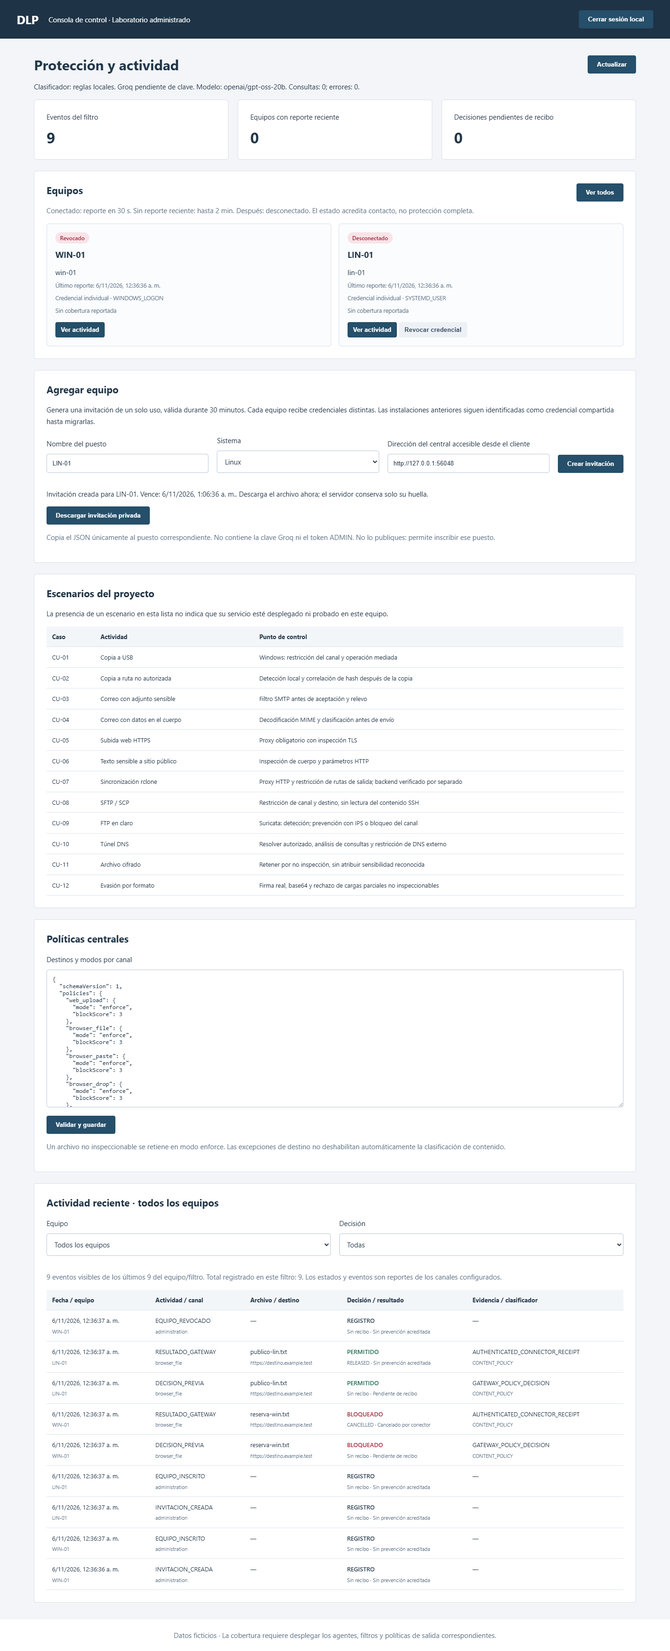
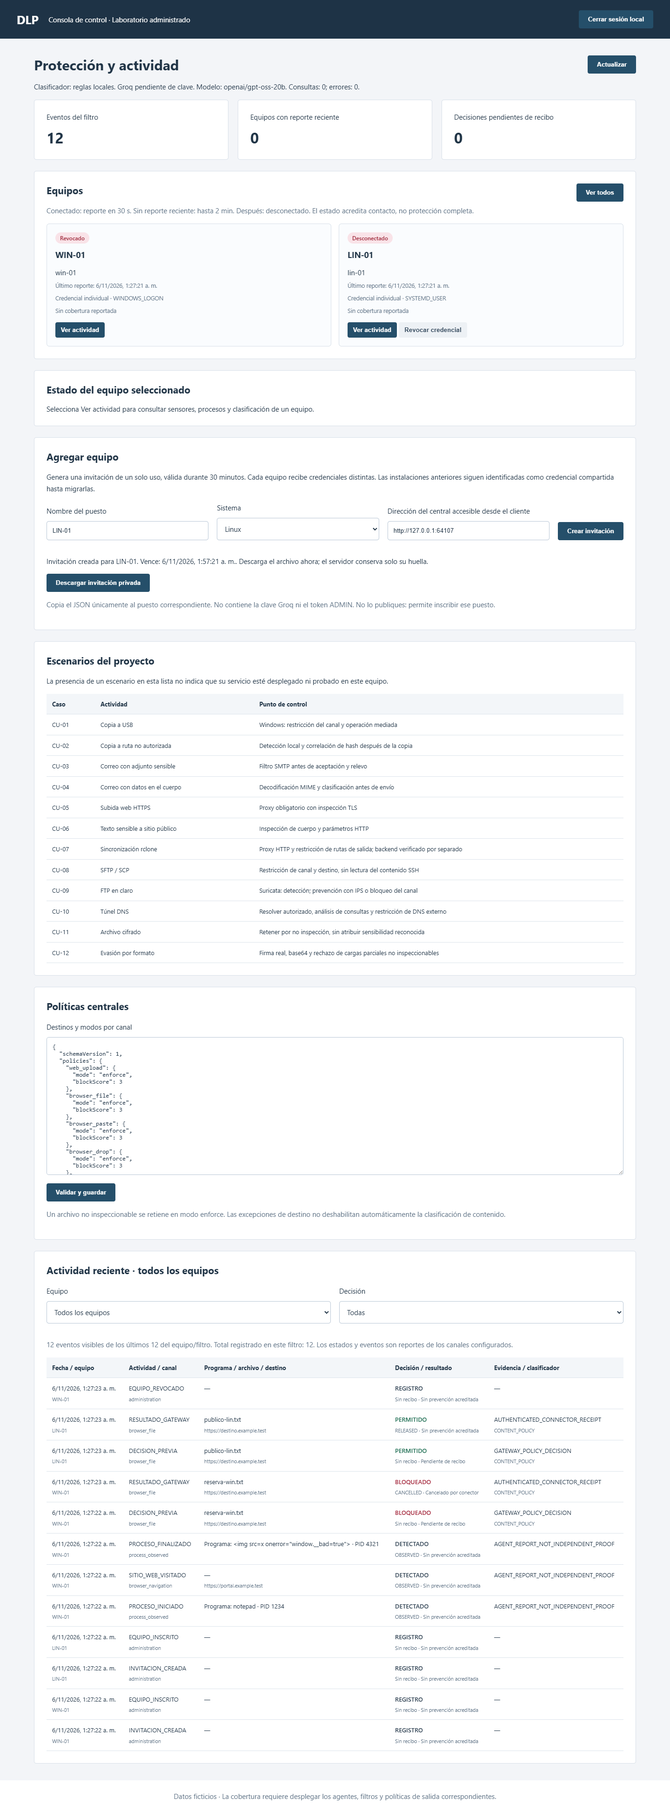
Fix console-free client startup and expose per-device sensor activity

diff --git a/control/ui/control.js b/control/ui/control.js
@@ -21,8 +21,21 @@ function renderEvents() {
     const file = v.file || files.map(f => f.file).join(", ");
     const semantic = v.semanticStatus || files.map(f => f.semanticStatus).filter(Boolean).join(", ");
     const label = devices.get(v.device)?.name || v.deviceName || v.device || "control";
-    return `<tr><td>${esc(when(v.timestamp))}<small>${esc(label)}</small></td><td>${esc(v.activity)}<small>${esc(v.sourceChannel || v.channel)}</small></td><td>${esc(file || "—")}<small>${esc(v.destination || "")}</small></td><td><span class="badge ${/^[A-Z_]+$/.test(v.decision || "") ? v.decision : ""}">${esc(v.decision || "REGISTRO")}</span><small>${esc(v.outcome || "Sin recibo")} · ${v.prevented === true ? "Cancelado por conector" : v.reportedPrevented ? "Bloqueo reportado por agente" : v.prevented === null ? "Pendiente de recibo" : "Sin prevención acreditada"}</small></td><td>${esc(v.evidence || "—")}<small>${esc(v.cause || semantic || "")}</small></td></tr>`;
+    const target = v.destination || (v.destinationAddress ? v.destinationAddress + (v.destinationPort ? ":" + v.destinationPort : "") : "");
+    const program = v.program ? `Programa: ${v.program}${v.processId ? " · PID " + v.processId : ""}` : "";
+    return `<tr><td>${esc(when(v.sourceTime || v.timestamp))}<small>${esc(label)}</small></td><td>${esc(v.activity)}<small>${esc(v.sourceChannel || v.channel)}</small></td><td>${esc(file || program || "—")}${file && program ? `<small>${esc(program)}</small>` : ""}<small>${esc(target)}</small></td><td><span class="badge ${/^[A-Z_]+$/.test(v.decision || "") ? v.decision : ""}">${esc(v.decision || "REGISTRO")}</span><small>${esc(v.outcome || "Sin recibo")} · ${v.prevented === true ? "Cancelado por conector" : v.reportedPrevented ? "Bloqueo reportado por agente" : v.prevented === null ? "Pendiente de recibo" : "Sin prevención acreditada"}</small></td><td>${esc(v.evidence || "—")}<small>${esc(v.cause || semantic || "")}</small></td></tr>`;
   }).join("") : '<tr><td colspan="5">No hay eventos para esta selección.</td></tr>';
+}
+function renderDeviceDetails(status) {
+  const device = status.agents.find(d => d.device === status.selectedDevice);
+  const container = $("device-details");
+  if (!device) { container.textContent = "Selecciona Ver actividad para consultar sensores, procesos y clasificación de un equipo."; return; }
+  const sensors = device.sensors, semantic = device.semantic;
+  const semanticText = semantic ? `Resultados semánticos completos: ${semantic.complete}. Otros estados: ${semantic.other}. Último: ${semantic.lastStatus} (${when(semantic.lastAt)}). COMPLETE puede proceder de caché; no equivale a una llamada nueva ni demuestra bloqueo.` : "Sin resultados semánticos centrales registrados para este equipo. Tener la clave configurada no acredita análisis en esta máquina.";
+  if (!sensors) { container.innerHTML = `<h3>${esc(device.name)}</h3><p>Este agente no reporta aún el estado de sus sensores. Actualiza el cliente.</p><p>${esc(semanticText)}</p>`; return; }
+  const p = sensors.process;
+  const recent = device.connection === "ONLINE" && p.available && Number.isFinite(Date.parse(p.sampledAt)) && Date.parse(status.serverTime) - Date.parse(p.sampledAt) <= 30000;
+  container.innerHTML = `<h3>${esc(device.name)} · sensores reportados</h3><p>Procesos: ${recent ? "muestra reciente" : "sin muestra reciente"}. ${esc(p.count)} visibles; alcance: ${esc(p.scope)}. Última muestra: ${esc(when(p.sampledAt))}.<br>Extensiones activas: ${esc(sensors.browser.activeClients)}; con navegación habilitada: ${esc(sensors.browser.navigationClients)}.<br>Inventario: ${esc(sensors.inventory.files)} archivos en ${esc(sensors.inventory.roots)} carpetas configuradas. Clasificación semántica del inventario: ${sensors.inventory.semanticEnabled ? "habilitada" : "deshabilitada"}. Backend: ${esc(sensors.inspectionBackend)}.</p><p>${esc(semanticText)}</p><p class="muted">Son muestras de metadatos; no describen cada acción dentro de una aplicación. Procesos breves pueden no aparecer. La navegación requiere extensión vinculada. No hay interceptación universal.</p><details><summary>Última lista de procesos reportada (máximo 50)</summary><p>${p.truncated ? "Lista parcial. " : ""}Cambios omitidos por límite del sensor: ${esc(p.droppedEvents)}.</p><ul>${p.processes.map(v => `<li>${esc(v.program)} · PID ${esc(v.processId)}</li>`).join("") || "<li>Sin muestra de procesos.</li>"}</ul></details>`;
 }
 async function refresh(first = false) {
   const version = ++refreshVersion, filter = selected;
@@ -39,6 +52,7 @@ async function refresh(first = false) {
     $("agents").innerHTML = status.agents.length ? status.agents.map(a => `<section class="device-card ${a.device === selected ? "selected" : ""}"><span class="connection ${esc(a.connection)}">${esc(connection[a.connection] || a.connection)}</span><h3>${esc(a.name)}</h3><p>${esc(a.hostname || a.platform || "Equipo anterior")}<small>Último reporte: ${esc(when(a.lastSeen))}</small><small>${a.identity === "INDIVIDUAL" ? "Credencial individual" : "Credencial compartida · migración pendiente"} · ${esc(a.startMode || "Inicio no reportado")}</small><small>${esc(a.coverage || "Sin cobertura reportada")}</small></p><button type="button" data-device="${esc(a.device)}">Ver actividad</button>${a.identity === "INDIVIDUAL" && a.connection !== "REVOKED" ? ` <button class="secondary" type="button" data-revoke="${esc(a.id)}">Revocar credencial</button>` : ""}</section>`).join("") : "Sin equipos registrados. Crea una invitación o espera al agente existente.";
     $("device-filter").innerHTML = '<option value="">Todos los equipos</option>' + status.agents.map(d => `<option value="${esc(d.device)}">${esc(d.name)}</option>`).join("");
     $("device-filter").value = selected;
+    renderDeviceDetails(status);
     $("cases").innerHTML = status.cases.map(v => `<tr><td>${esc(v.id)}</td><td>${esc(v.name)}</td><td>${esc(v.coverage)}</td></tr>`).join("");
     if (first) $("policy").value = JSON.stringify(status.policy, null, 2);
     renderEvents();

diff --git a/control/ui/index.html b/control/ui/index.html
@@ -5,8 +5,9 @@
 <p id="notice" role="status"></p><div id="console" hidden><div class="title"><div><h1>Protección y actividad</h1><p id="provider"></p></div><button id="refresh">Actualizar</button></div>
 <div class="cards"><article><span>Eventos del filtro</span><strong id="event-count">0</strong></article><article><span>Equipos con reporte reciente</span><strong id="agent-count">0</strong></article><article><span>Decisiones pendientes de recibo</span><strong id="pending-count">0</strong></article></div>
 <article><div class="title"><div><h2>Equipos</h2><p class="muted">Conectado: reporte en 30 s. Sin reporte reciente: hasta 2 min. Después: desconectado. El estado acredita contacto, no protección completa.</p></div><button id="all-devices" type="button">Ver todos</button></div><div id="agents" class="device-grid"></div></article>
+<article><h2>Estado del equipo seleccionado</h2><div id="device-details"></div></article>
 <article><h2>Agregar equipo</h2><p>Genera una invitación de un solo uso, válida durante 30 minutos. Cada equipo recibe credenciales distintas. Las instalaciones anteriores siguen identificadas como credencial compartida hasta migrarlas.</p><form id="enroll-form" class="enroll-fields"><label>Nombre del puesto<input id="device-name" required maxlength="80" placeholder="WIN-01 / Finanzas"></label><label>Sistema<select id="device-platform"><option value="win32">Windows</option><option value="linux">Linux</option></select></label><label>Dirección del central accesible desde el cliente<input id="enroll-url" type="url" required placeholder="http://192.168.56.1:3100"></label><button type="submit">Crear invitación</button></form><div id="invitation-result" hidden><p id="invitation-detail"></p><button id="download-invitation" type="button">Descargar invitación privada</button><p class="muted">Copia el JSON únicamente al puesto correspondiente. No contiene la clave Groq ni el token ADMIN. No lo publiques: permite inscribir ese puesto.</p></div></article>
 <article><h2>Escenarios del proyecto</h2><p>La presencia de un escenario en esta lista no indica que su servicio esté desplegado ni probado en este equipo.</p><table><thead><tr><th>Caso</th><th>Actividad</th><th>Punto de control</th></tr></thead><tbody id="cases"></tbody></table></article>
 <article><h2>Políticas centrales</h2><form id="policy-form"><label>Destinos y modos por canal<textarea id="policy" rows="18" spellcheck="false"></textarea></label><button>Validar y guardar</button></form><p class="muted">Un archivo no inspeccionable se retiene en modo enforce. Las excepciones de destino no deshabilitan automáticamente la clasificación de contenido.</p></article>
-<article><h2 id="activity-title">Actividad reciente · todos los equipos</h2><div class="filters"><label>Equipo<select id="device-filter"><option value="">Todos los equipos</option></select></label><label>Decisión<select id="decision-filter"><option value="">Todas</option><option>PERMITIDO</option><option>DETECTADO</option><option>ALERTA</option><option>BLOQUEADO</option><option>ERROR</option><option>NO_ANALIZABLE</option></select></label></div><p id="event-summary" class="muted"></p><div class="scroll"><table><thead><tr><th>Fecha / equipo</th><th>Actividad / canal</th><th>Archivo / destino</th><th>Decisión / resultado</th><th>Evidencia / clasificador</th></tr></thead><tbody id="events"></tbody></table></div></article></div></main>
+<article><h2 id="activity-title">Actividad reciente · todos los equipos</h2><div class="filters"><label>Equipo<select id="device-filter"><option value="">Todos los equipos</option></select></label><label>Decisión<select id="decision-filter"><option value="">Todas</option><option>PERMITIDO</option><option>DETECTADO</option><option>ALERTA</option><option>BLOQUEADO</option><option>ERROR</option><option>NO_ANALIZABLE</option></select></label></div><p id="event-summary" class="muted"></p><div class="scroll"><table><thead><tr><th>Fecha / equipo</th><th>Actividad / canal</th><th>Programa / archivo / destino</th><th>Decisión / resultado</th><th>Evidencia / clasificador</th></tr></thead><tbody id="events"></tbody></table></div></article></div></main>
 <footer>Datos ficticios · La cobertura requiere desplegar los agentes, filtros y políticas de salida correspondientes.</footer></body></html>

diff --git a/endpoint/runtime.js b/endpoint/runtime.js
@@ -16,6 +16,8 @@ const { forwardAudit } = require("../lib/telemetry");
 const { CopyMonitor } = require("./copy-monitor");
 const { managedInspection, reportCentral, classifyAtRest } = require("../lib/managed-inspection");
 const { BrowserObserver } = require("./browser-observer");
+const { LinuxProcessObserver } = require("./linux-process-observer");
+const { sensorReport } = require("../lib/sensor-report");
 
 const EXCLUDED = new Set(["node_modules", ".git", ".cache", "appdata", "windows", "program files", "program files (x86)", "datos-endpoint", "logs", "recibidos", "tmp", "$recycle.bin", "system volume information"]);
 const fileId = (file) => crypto.createHash("sha256").update(process.platform === "win32" ? file.toLowerCase() : file).digest("hex").slice(0, 24);
@@ -37,6 +39,9 @@ class EndpointRuntime extends EventEmitter {
     this.tickets = new Map();
     this.scanState = { running: false, completedAt: null, examined: 0, skipped: 0, inaccessible: 0, capped: false, roots: [] };
     this.bridge = options.bridge || new WindowsBridge({ enabled: options.native !== false && process.env.DLP_DISABLE_NATIVE !== "1" });
+    this.linuxProcesses = new LinuxProcessObserver({ enabled: options.native !== false && process.env.DLP_DISABLE_NATIVE !== "1" });
+    this.linuxProcesses.on("sensor", message => this.handleNative(message).catch(error => this.operationalError("SENSOR_LINUX", error)));
+    this.linuxProcesses.on("diagnostic", message => this.operationalError("SENSOR_LINUX", new Error(message)));
     this.adapters = options.adapters || {};
     this.classifyAtRest = options.classifyAtRest || classifyAtRest;
     this.startedAt = null;
@@ -68,7 +73,8 @@ class EndpointRuntime extends EventEmitter {
       }
     }
     this.bridge.start();
-    this.stopTelemetry = forwardAudit(this.audit, this.dataDirectory);
+    this.linuxProcesses.start();
+    this.stopTelemetry = forwardAudit(this.audit, this.dataDirectory, () => this.sensorReport());
     this.installWatchers();
     await this.scan();
     this.copyMonitor = new CopyMonitor(this); this.copyMonitor.start();
@@ -370,6 +376,17 @@ class EndpointRuntime extends EventEmitter {
     this.bridge.request("notify", { message }).catch(() => {});
   }
 
+  sensorReport() {
+    const win = this.bridge.info;
+    const clients = this.browserObserver.status().filter(c => c.active);
+    return sensorReport({
+      process: process.platform === "win32" ? { available: win.available && Boolean(win.processObservation), scope: "VISIBLE_PROCESSES", intervalMs: 5000, sampledAt: win.processSampledAt, count: win.processCount, processes: win.processes, truncated: win.processCount > 50, droppedEvents: win.droppedProcessEvents } : this.linuxProcesses.info,
+      browser: { activeClients: clients.length, navigationClients: clients.filter(c => c.navigation).length },
+      inventory: { roots: this.config.watchRoots.length, files: this.inventory.size, semanticEnabled: this.semanticInventoryEnabled() },
+      inspectionBackend: process.env.DLP_INSPECTION_BACKEND || "local",
+    });
+  }
+
   status() {
     const items = [...this.inventory.values()];
     let systemControls = { applied: false, verificationRequired: true };
@@ -380,6 +397,7 @@ class EndpointRuntime extends EventEmitter {
       operations: { prevented: this.audit.events.filter((event) => event.prevented === true).length },
       windows: this.bridge.info, windowsControls: systemControls, audit: this.audit.status(), suggestedRoots: suggestedRoots(),
       browserClients: this.browserObserver.status(),
+      sensors: this.sensorReport(),
       session: this.session || { mode: "COMPONENT", nativeSensitiveOnly: false },
       coverage: [
         { channel: "Archivos locales", mode: "DETECCION", active: this.watchers.length > 0, detail: "Carpetas configuradas, archivos accesibles y formatos admitidos; no intercepta lecturas ni copias nativas." },
@@ -398,6 +416,7 @@ class EndpointRuntime extends EventEmitter {
     this.stopping = true;
     this.stopTelemetry?.();
     this.copyMonitor?.stop();
+    this.linuxProcesses.stop();
     clearTimeout(this.debounce); clearInterval(this.scanTimer);
     for (const watcher of this.watchers) watcher.close();
     this.watchers = [];

diff --git a/evaluacion/central-e2e.js b/evaluacion/central-e2e.js
@@ -36,6 +36,7 @@ async function run() {
       return device;
     }
     const win = await enroll("WIN-01", "win32"), lin = await enroll("LIN-01", "linux"); results.push("Invitación descargada e inscripción individual Windows/Linux");
+    await request("/v1/telemetry", win.telemetryToken, { device: win.deviceId, platform: "win32", startMode: "WINDOWS_LOGON", sensors: { process: { available: true, scope: "VISIBLE_PROCESSES", sampledAt: new Date().toISOString(), count: 1, processes: [{ processId: 1234, program: "notepad" }] }, browser: { activeClients: 1, navigationClients: 1 }, inventory: { roots: 2, files: 3 }, inspectionBackend: "central" }, events: [{ id: "proceso-prueba", channel: "process_observed", activity: "PROCESO_INICIADO", program: "notepad", processId: 1234 }, { id: "sitio-prueba", channel: "browser_navigation", activity: "SITIO_WEB_VISITADO", destination: "https://portal.example.test/ruta?secreto=NO_MOSTRAR" }, { id: "escape-prueba", channel: "process_observed", program: '<img src=x onerror="window.__bad=true">', activity: "PROCESO_FINALIZADO", processId: 4321 }] });
     for (const [device, file, text, outcome] of [[win, "reserva-win.txt", "DNI: 12345678", "CANCELLED"], [lin, "publico-lin.txt", "Horario publico de biblioteca", "RELEASED"]]) {
       const r = await request("/v1/inspect", device.inspectToken, { device: device.deviceId, channel: "browser_file", destination: "https://destino.example.test", parts: [{ name: file, base64: Buffer.from(text).toString("base64") }] });
       const decision = await r.json(); assert.equal(decision.allowed, outcome !== "CANCELLED");
@@ -45,8 +46,20 @@ async function run() {
     await page.locator(".device-card").filter({ has: page.getByRole("heading", { name: "WIN-01", exact: true }) }).getByRole("button", { name: "Ver actividad" }).click();
     await page.locator("#activity-title").filter({ hasText: "WIN-01" }).waitFor();
     assert.ok((await page.locator("#events").innerText()).includes("reserva-win.txt")); assert.ok(!(await page.locator("#events").innerText()).includes("publico-lin.txt"));
+    const details = await page.locator("#device-details").innerText();
+    assert.ok(details.includes("Extensiones activas: 1"));
+    await page.locator("#device-details summary").click();
+    assert.ok((await page.locator("#device-details").innerText()).includes("notepad · PID 1234"));
+    assert.ok((await page.locator("#events").innerText()).includes("Programa: notepad · PID 1234"));
+    assert.ok((await page.locator("#events").innerText()).includes("https://portal.example.test"));
+    assert.ok(!(await page.locator("#events").innerText()).includes("NO_MOSTRAR"));
+    assert.equal(await page.locator("#events img").count(), 0);
+    await fs.mkdir("output/evidencias", { recursive: true });
+    await page.locator("#device-details").screenshot({ path: "output/evidencias/central-detalle-equipo.png" });
+    results.push("Programa/PID, procesos actuales, conector y sitio sin ruta privada; escape HTML");
     await page.locator("#device-filter").selectOption(lin.deviceId); await page.locator("#activity-title").filter({ hasText: "LIN-01" }).waitFor();
     assert.ok((await page.locator("#events").innerText()).includes("publico-lin.txt")); assert.ok(!(await page.locator("#events").innerText()).includes("reserva-win.txt")); results.push("Vista individual no mezcla eventos entre puestos");
+    assert.ok((await page.locator("#device-details").innerText()).includes("no reporta aún"));
     await page.locator("#decision-filter").selectOption("BLOQUEADO"); assert.ok(!(await page.locator("#events").innerText()).includes("publico-lin.txt"));
     await page.locator("#decision-filter").selectOption(""); await page.locator("#all-devices").click(); await page.locator("#activity-title").filter({ hasText: "todos los equipos" }).waitFor();
     assert.ok((await page.locator("#events").innerText()).includes("reserva-win.txt")); results.push("Filtro de decisión y retorno a todos los equipos");

diff --git a/test/process-observer.test.js b/test/process-observer.test.js
@@ -1,0 +1,55 @@
+"use strict";
+const { test } = require("node:test");
+const assert = require("node:assert/strict");
+const fs = require("node:fs/promises");
+const path = require("node:path");
+const { spawn } = require("node:child_process");
+const { temporary } = require("./helpers/fixtures.cjs");
+const { LinuxProcessObserver } = require("../endpoint/linux-process-observer");
+const { sensorReport } = require("../lib/sensor-report");
+
+test("sensor Linux: muestra inicial, usuario, cambios, límites y pérdida explícita", async t => {
+  const tmp = await temporary(); t.after(tmp.cleanup);
+  const sensor = new LinuxProcessObserver({ platform: "linux", proc: tmp.root, uid: 1000 });
+  t.after(() => sensor.stop());
+  const events = []; sensor.on("sensor", e => events.push(e));
+  async function proc(pid, name, uid = 1000) {
+    const dir = path.join(tmp.root, String(pid)); await fs.mkdir(dir, { recursive: true });
+    await fs.writeFile(path.join(dir, "status"), `Uid:\t${uid}\t${uid}\t${uid}\t${uid}\n`);
+    await fs.writeFile(path.join(dir, "comm"), name + "\n");
+    await fs.writeFile(path.join(dir, "cmdline"), "ESTO_NO_DEBE_LEERSE");
+  }
+  await proc(101, "firefox"); await proc(102, "privado-otro-uid", 999);
+  await sensor.poll(); assert.equal(events.length, 0); assert.equal(sensor.info.count, 1);
+  assert.deepEqual(sensor.info.processes, [{ processId: 101, program: "firefox" }]);
+  await proc(103, "discord"); await sensor.poll();
+  assert.deepEqual(events.map(e => [e.phase, e.program, e.processId]), [["START", "discord", 103]]);
+  await fs.rm(path.join(tmp.root, "103"), { recursive: true }); await sensor.poll();
+  assert.equal(events.at(-1).phase, "EXIT");
+  // Reutilización del PID con nombre distinto genera salida y entrada.
+  await proc(101, "otro"); await sensor.poll();
+  assert.deepEqual(events.slice(-2).map(e => [e.phase, e.program]), [["EXIT", "firefox"], ["START", "otro"]]);
+  for (let i = 200; i < 310; i++) await proc(i, "muestra" + i);
+  const before = events.length; await sensor.poll();
+  assert.equal(events.length - before, 100); assert.equal(sensor.info.droppedEvents, 10);
+  assert.equal(sensor.info.processes.length, 50); assert.equal(sensor.info.truncated, true);
+  assert.ok(!JSON.stringify(sensor.info).includes("ESTO_NO_DEBE_LEERSE"));
+  sensor.stop(); assert.equal(sensor.info.available, false);
+});
+
+test("Linux real observa un proceso propio y su salida, sin argumentos", { skip: process.platform !== "linux" }, async t => {
+  const sensor = new LinuxProcessObserver(); t.after(() => sensor.stop());
+  await sensor.poll(); const events = []; sensor.on("sensor", e => events.push(e));
+  const child = spawn(process.execPath, ["-e", "setInterval(()=>{},1000)", "ARGUMENTO_NO_RECOLECTADO"], { stdio: "ignore" });
+  t.after(() => child.kill()); await new Promise((resolve, reject) => { child.once("spawn", resolve); child.once("error", reject); });
+  await sensor.poll(); assert.ok(events.some(e => e.phase === "START" && e.processId === child.pid));
+  const exit = new Promise(r => child.once("exit", r)); child.kill(); await exit; await sensor.poll();
+  assert.ok(events.some(e => e.phase === "EXIT" && e.processId === child.pid));
+  assert.ok(!JSON.stringify(events).includes("ARGUMENTO_NO_RECOLECTADO"));
+});
+
+test("reporte de sensores descarta contenido libre y acota metadatos", () => {
+  const report = sensorReport({ process: { available: true, count: 60, processes: Array.from({ length: 60 }, (_, i) => ({ processId: i + 1, program: "x".repeat(500), cmdline: "SECRETO" })) }, browser: { activeClients: 1, rawToken: "SECRETO" }, universalInterception: true, content: "SECRETO" });
+  assert.equal(report.process.processes.length, 50); assert.equal(report.process.processes[0].program.length, 160);
+  assert.equal(report.universalInterception, false); assert.ok(!JSON.stringify(report).includes("SECRETO"));
+});

diff --git a/control/server.js b/control/server.js
@@ -135,6 +135,9 @@ function createControl(options = {}) {
       // Proyección explícita: nunca persistir texto libre, claves o el cuerpo de un evento arbitrario.
       const clean = { ...eventIdentity(req, input.device), channel: "endpoint_telemetry", activity: String(item.activity || "OBSERVED").slice(0, 60), sourceEventId: String(item.id || "").slice(0, 64), sourceTime: String(item.timestamp || "").slice(0, 40), file: String(item.file || "").slice(0, 160), classification: String(item.classification || "NO_DETERMINADA").slice(0, 30), decision: ["PERMITIDO", "DETECTADO", "ALERTA", "BLOQUEADO", "ERROR", "NO_ANALIZABLE"].includes(item.decision) ? item.decision : "DETECTADO", prevented: false, reportedPrevented: item.prevented === true, evidence: "AGENT_REPORT_NOT_INDEPENDENT_PROOF", outcome: String(item.outcome || "OBSERVED").slice(0, 40) };
       for (const key of ["program", "destinationAddress", "destinationPort"]) if (typeof item[key] === "string") clean[key] = item[key].slice(0, key === "program" ? 250 : 80);
+      if (Number.isInteger(item.processId) && item.processId > 0) clean.processId = item.processId;
+      if (typeof item.semanticStatus === "string") clean.semanticStatus = item.semanticStatus.slice(0, 60);
+      if (typeof item.inspectionStatus === "string") clean.inspectionStatus = item.inspectionStatus.slice(0, 40);
       if (Number.isInteger(item.ruleId) && item.ruleId >= 100000 && item.ruleId < 120000) clean.ruleId = item.ruleId;
       if (typeof item.channel === "string") clean.sourceChannel = item.channel.slice(0, 60);
       if (item.channel === "browser_navigation" && typeof item.destination === "string") { try { const u = new URL(item.destination); if (["http:", "https:"].includes(u.protocol)) clean.destination = u.origin; } catch {} }
@@ -148,7 +151,18 @@ function createControl(options = {}) {
   app.get("/v1/admin/status", (req, res) => {
     const selected = typeof req.query.device === "string" ? req.query.device.slice(0, 100) : "";
     const filtered = selected ? audit.events.filter(e => e.device === selected) : audit.events;
-    res.json({ version: "3.0.0", serverTime: new Date().toISOString(), classifier: semanticClassifier.status(), cases: CASES, agents: devices.list(), selectedDevice: selected || null, filteredEvents: filtered.length, events: filtered.slice(-300).reverse(), audit: audit.status(), policy, pendingDecisions: tickets.size });
+    // Cuenta resultados emitidos por el central; excluye copias de telemetría.
+    // COMPLETE acredita clasificación semántica (puede usar caché), no una llamada nueva ni bloqueo.
+    const semanticByDevice = new Map();
+    for (const event of audit.events) {
+      if (!["CLASIFICACION_EN_REPOSO", "DECISION_PREVIA"].includes(event.activity) || event.channel === "endpoint_telemetry") continue;
+      const statuses = event.files ? event.files.map(f => f.semanticStatus) : [event.semanticStatus];
+      if (!statuses.some(Boolean)) continue;
+      const summary = semanticByDevice.get(event.device) || { complete: 0, other: 0, lastStatus: "", lastAt: null };
+      for (const status of statuses.filter(Boolean)) { status === "COMPLETE" ? summary.complete++ : summary.other++; summary.lastStatus = status; }
+      summary.lastAt = event.timestamp; semanticByDevice.set(event.device, summary);
+    }
+    res.json({ version: "3.0.0", serverTime: new Date().toISOString(), classifier: semanticClassifier.status(), cases: CASES, agents: devices.list().map(d => ({ ...d, semantic: semanticByDevice.get(d.device) || null })), selectedDevice: selected || null, filteredEvents: filtered.length, events: filtered.slice(-300).reverse(), audit: audit.status(), policy, pendingDecisions: tickets.size });
   });
   app.post("/v1/admin/devices", (req, res) => {
     const result = devices.invite({ ...req.body, allowLabHttp: process.env.DLP_ALLOW_LAB_HTTP === "1" });

diff --git a/endpoint/linux-process-observer.js b/endpoint/linux-process-observer.js
@@ -1,0 +1,55 @@
+"use strict";
+const fs = require("node:fs/promises");
+const path = require("node:path");
+const { EventEmitter } = require("node:events");
+
+// Metadatos del usuario del agente. No lee cmdline, memoria ni contenido de ventanas.
+class LinuxProcessObserver extends EventEmitter {
+  constructor(options = {}) {
+    super();
+    this.enabled = options.enabled !== false && (options.platform || process.platform) === "linux";
+    this.proc = options.proc || "/proc";
+    this.uid = options.uid ?? process.getuid?.();
+    this.interval = options.interval || 5000;
+    this.processes = new Map(); this.initialized = false; this.stopped = false; this.busy = false;
+    this.info = { available: false, scope: "CURRENT_USER", intervalMs: this.interval, sampledAt: null, count: 0, truncated: false, processes: [], droppedEvents: 0 };
+  }
+  async poll() {
+    if (!this.enabled || this.stopped || this.busy) return;
+    this.busy = true;
+    try {
+      const entries = await fs.readdir(this.proc, { withFileTypes: true });
+      const current = new Map(); let skipped = 0;
+      for (const entry of entries) {
+        if (!entry.isDirectory() || !/^\d+$/.test(entry.name)) continue;
+        try {
+          const dir = path.join(this.proc, entry.name);
+          const status = await fs.readFile(path.join(dir, "status"), "utf8");
+          const uid = /^Uid:\s+(\d+)/m.exec(status);
+          if (!uid || Number(uid[1]) !== this.uid) continue;
+          const program = (await fs.readFile(path.join(dir, "comm"), "utf8")).trim().replace(/[\x00-\x1f\x7f]/g, "").slice(0, 160);
+          current.set(Number(entry.name), program);
+          if (current.size >= 4096) { skipped++; break; }
+        } catch { skipped++; } // /proc cambia mientras se recorre; no invalida toda la muestra.
+      }
+      if (this.stopped) return;
+      let emitted = 0, dropped = 0;
+      const emit = (phase, processId, program) => {
+        if (emitted++ < 100) this.emit("sensor", { type: "process-observed", phase, processId, program });
+        else dropped++;
+      };
+      if (this.initialized) {
+        for (const [pid, name] of this.processes) if (current.get(pid) !== name) emit("EXIT", pid, name);
+        for (const [pid, name] of current) if (this.processes.get(pid) !== name) emit("START", pid, name);
+      }
+      this.processes = current; this.initialized = true;
+      const processes = [...current].sort((a, b) => a[1].localeCompare(b[1]) || a[0] - b[0]).slice(0, 50).map(([processId, program]) => ({ processId, program }));
+      this.info = { ...this.info, available: true, sampledAt: new Date().toISOString(), count: current.size, processes, truncated: current.size > 50 || skipped > 0, droppedEvents: this.info.droppedEvents + dropped };
+    } catch {
+      this.info = { ...this.info, available: false }; this.emit("diagnostic", "No se pudo consultar el sensor de procesos Linux");
+    } finally { this.busy = false; }
+  }
+  start() { if (!this.enabled || this.timer) return; this.stopped = false; this.poll(); this.timer = setInterval(() => this.poll(), this.interval); this.timer.unref(); }
+  stop() { this.stopped = true; clearInterval(this.timer); this.timer = null; this.info.available = false; }
+}
+module.exports = { LinuxProcessObserver };

diff --git a/control/devices.js b/control/devices.js
@@ -3,6 +3,7 @@ const fs = require("node:fs");
 const path = require("node:path");
 const crypto = require("node:crypto");
 const { writeJsonAtomic } = require("../endpoint/config");
+const { sensorReport } = require("../lib/sensor-report");
 const digest = value => crypto.createHash("sha256").update(value).digest("hex");
 const equalHash = (value, hash) => typeof value === "string" && value.length === 64 && /^[a-f0-9]{64}$/.test(hash || "") && crypto.timingSafeEqual(Buffer.from(digest(value), "hex"), Buffer.from(hash, "hex"));
 const short = (value, length = 100) => typeof value === "string" ? value.replace(/[\x00-\x1f\x7f]/g, "").slice(0, length) : "";
@@ -50,6 +51,7 @@ class DeviceStore {
   heartbeat(device, input) {
     if (input.platform && input.platform !== device.platform) throw new Error("Plataforma del reporte incompatible.");
     Object.assign(device, { lastSeen: new Date(this.now()).toISOString(), hostname: short(input.hostname || device.hostname), version: short(input.version, 30), coverage: short(input.coverage, 200), startMode: short(input.startMode || "MANUAL", 40) });
+    device.sensors = sensorReport(input.sensors);
     this.save();
   }
   legacyHeartbeat(name, coverage) {
@@ -64,8 +66,8 @@ class DeviceStore {
     return !Number.isFinite(age) || age > 120000 ? "OFFLINE" : age > 30000 ? "STALE" : "ONLINE";
   }
   public(device) {
-    const { id, name, platform, hostname, version, createdAt, expiresAt, enrolledAt, revokedAt, lastSeen, coverage, startMode } = device;
-    return { device: id, id, name, platform, hostname, version, createdAt, expiresAt, enrolledAt, revokedAt, lastSeen, coverage, startMode, identity: "INDIVIDUAL", connection: revokedAt ? "REVOKED" : !enrolledAt ? Date.parse(expiresAt) <= this.now() ? "EXPIRED" : "PENDING" : this.connection(lastSeen) };
+    const { id, name, platform, hostname, version, createdAt, expiresAt, enrolledAt, revokedAt, lastSeen, coverage, startMode, sensors } = device;
+    return { device: id, id, name, platform, hostname, version, createdAt, expiresAt, enrolledAt, revokedAt, lastSeen, coverage, startMode, sensors: sensorReport(sensors), identity: "INDIVIDUAL", connection: revokedAt ? "REVOKED" : !enrolledAt ? Date.parse(expiresAt) <= this.now() ? "EXPIRED" : "PENDING" : this.connection(lastSeen) };
   }
   list() {
     return [...this.state.devices.map(d => this.public(d)), ...this.state.legacy.map(d => ({ ...d, name: d.device, identity: "SHARED_LEGACY", connection: this.connection(d.lastSeen) }))];

diff --git a/lib/telemetry.js b/lib/telemetry.js
@@ -3,7 +3,7 @@ require("./environment");
 const fs = require("node:fs");
 const path = require("node:path");
 const { deviceIdentity } = require("./device-identity");
-function forwardAudit(audit, directory) {
+function forwardAudit(audit, directory, getSensors = () => null) {
   if (process.env.DLP_FORWARD_EVENTS !== "1") return () => {};
   const base = process.env.DLP_CONTROL_URL || "http://127.0.0.1:3100";
   const url = new URL(base);
@@ -15,7 +15,7 @@ function forwardAudit(audit, directory) {
     if (running) return; running = true;
     try {
       const events = audit.events.slice(cursor, cursor + 50).map((event) => ({ ...event, destination: event.channel === "browser_navigation" ? event.origin : undefined }));
-      const response = await fetch(`${url.origin}/v1/telemetry`, { method: "POST", redirect: "error", headers: { "Content-Type": "application/json", "X-DLP-Token": process.env.DLP_TELEMETRY_TOKEN || "" }, body: JSON.stringify({ ...deviceIdentity(), coverage: "Carpetas y canales configurados; no es control universal del sistema", events: events.map(({ id, timestamp, channel, activity, file, classification, decision, prevented, outcome, program, destinationAddress, destinationPort, destination }) => ({ id, timestamp, channel, activity, file, classification, decision, prevented, outcome, program, destinationAddress, destinationPort, destination })) }), signal: AbortSignal.timeout(5000) });
+      const response = await fetch(`${url.origin}/v1/telemetry`, { method: "POST", redirect: "error", headers: { "Content-Type": "application/json", "X-DLP-Token": process.env.DLP_TELEMETRY_TOKEN || "" }, body: JSON.stringify({ ...deviceIdentity(), sensors: getSensors(), coverage: "Carpetas y canales configurados; no es control universal del sistema", events: events.map(({ id, timestamp, channel, activity, file, classification, decision, prevented, outcome, program, processId, semanticStatus, inspectionStatus, destinationAddress, destinationPort, destination }) => ({ id, timestamp, channel, activity, file, classification, decision, prevented, outcome, program, processId, semanticStatus, inspectionStatus, destinationAddress, destinationPort, destination })) }), signal: AbortSignal.timeout(5000) });
       await response.body?.cancel();
       if (response.ok) { cursor += events.length; fs.writeFileSync(cursorFile, JSON.stringify({ cursor }), { mode: 0o600 }); }
     } catch {} finally { running = false; }

diff --git a/test/devices.test.js b/test/devices.test.js
@@ -86,6 +86,25 @@ test("cliente guarda identidad y respaldo privado sin clave Groq ni ADMIN del se
   assert.equal(parseEnv(await fs.readFile(path.join(root, ".env"), "utf8")).DLP_DEVICE_ID, result.deviceId);
 });
 
+test("detalle de sensores y procesos se conserva por identidad y excluye objetos libres", async t => {
+  const f = await fixture(t), a = await f.register("LIN-01"), b = await f.register("LIN-02");
+  const response = await f.request("/v1/telemetry", a.telemetryToken, {
+    device: a.deviceId, sensors: { process: { available: true, count: 1, processes: [{ processId: 42, program: "firefox", cmdline: "NO_PERSISTIR" }] }, browser: { activeClients: 1, navigationClients: 1 }, universalInterception: true, content: "NO_PERSISTIR" },
+    events: [{ id: "detalle-1", activity: "PROCESO_INICIADO", program: "firefox", processId: 42, semanticStatus: "COMPLETE", content: "NO_PERSISTIR" }],
+  });
+  assert.equal(response.status, 200);
+  f.control.audit.record({ device: a.deviceId, channel: "filesystem", activity: "CLASIFICACION_EN_REPOSO", semanticStatus: "COMPLETE", prevented: false });
+  const status = await (await f.request("/v1/admin/status?device=" + a.deviceId)).json();
+  const agent = status.agents.find(d => d.id === a.deviceId);
+  assert.equal(agent.sensors.process.processes[0].program, "firefox"); assert.equal(agent.sensors.universalInterception, false);
+  assert.equal(agent.semantic.complete, 1); // No cuenta de nuevo el resultado reportado por el agente.
+  assert.equal(status.agents.find(d => d.id === b.deviceId).semantic, null);
+  assert.equal(status.events.find(e => e.sourceEventId === "detalle-1").processId, 42);
+  const disk = await fs.readFile(path.join(f.tmp.root, "equipos.json"), "utf8");
+  assert.ok(!disk.includes("NO_PERSISTIR")); assert.ok(!JSON.stringify(status).includes("NO_PERSISTIR"));
+  assert.equal(new DeviceStore(f.tmp.root).public(new DeviceStore(f.tmp.root).get(a.deviceId)).sensors.browser.navigationClients, 1);
+});
+
 test("instalador unificado no consume invitación con agente manual y reintenta servicio sin reinscribir", async t => {
   const f = await fixture(t), root = path.join(f.tmp.root, "puesto");
   await fs.mkdir(path.join(root, "node_modules/express"), { recursive: true });

diff --git a/test/telemetry.test.js b/test/telemetry.test.js
@@ -1,0 +1,29 @@
+"use strict";
+const { test } = require("node:test");
+const assert = require("node:assert/strict");
+const fs = require("node:fs/promises");
+const path = require("node:path");
+const { setTimeout: delay } = require("node:timers/promises");
+const { temporary } = require("./helpers/fixtures.cjs");
+const { forwardAudit } = require("../lib/telemetry");
+
+test("telemetría transmite programa/PID, estado semántico y sensores sin copiar contenido del evento", async t => {
+  const tmp = await temporary(); t.after(tmp.cleanup);
+  const keys = ["DLP_FORWARD_EVENTS", "DLP_CONTROL_URL", "DLP_TELEMETRY_TOKEN", "DLP_DEVICE_ID"];
+  const prior = Object.fromEntries(keys.map(k => [k, process.env[k]]));
+  const originalFetch = global.fetch;
+  t.after(() => { global.fetch = originalFetch; for (const key of keys) prior[key] === undefined ? delete process.env[key] : process.env[key] = prior[key]; });
+  Object.assign(process.env, { DLP_FORWARD_EVENTS: "1", DLP_CONTROL_URL: "http://127.0.0.1:3100", DLP_TELEMETRY_TOKEN: "f".repeat(64), DLP_DEVICE_ID: "11111111-1111-4111-8111-111111111111" });
+  let body;
+  global.fetch = async (_url, options) => { body = JSON.parse(options.body); return { ok: true, body: { cancel: async () => {} } }; };
+  const stop = forwardAudit({ events: [{ id: "a", channel: "process_observed", program: "notepad", processId: 42, content: "NO_ENVIAR" }, { id: "b", channel: "filesystem", semanticStatus: "COMPLETE", inspectionStatus: "COMPLETE", text: "NO_ENVIAR" }] }, tmp.root, () => ({ browser: { activeClients: 1 } }));
+  t.after(stop);
+  const deadline = Date.now() + 2000;
+  while (Date.now() < deadline && !await fs.access(path.join(tmp.root, "telemetria-cursor.json")).then(() => true, () => false)) await delay(10);
+  stop();
+  assert.equal(body.device, process.env.DLP_DEVICE_ID);
+  assert.equal(body.events[0].program, "notepad"); assert.equal(body.events[0].processId, 42);
+  assert.equal(body.events[1].semanticStatus, "COMPLETE"); assert.equal(body.sensors.browser.activeClients, 1);
+  assert.ok(!JSON.stringify(body).includes("NO_ENVIAR"));
+  assert.equal(JSON.parse(await fs.readFile(path.join(tmp.root, "telemetria-cursor.json"))).cursor, 2);
+});

diff --git a/lib/sensor-report.js b/lib/sensor-report.js
@@ -1,0 +1,17 @@
+"use strict";
+// Proyección compartida: el central nunca conserva objetos libres del cliente.
+const text = (v, n = 160) => typeof v === "string" ? v.replace(/[\x00-\x1f\x7f]/g, "").slice(0, n) : "";
+function sensorReport(input) {
+  if (!input || typeof input !== "object") return null;
+  const process = input.process || {}, browser = input.browser || {}, inventory = input.inventory || {};
+  const count = v => Number.isInteger(v) && v >= 0 ? Math.min(v, 1000000) : 0;
+  const processes = Array.isArray(process.processes) ? process.processes.slice(0, 50).filter(p => p && Number.isInteger(p.processId) && p.processId > 0 && typeof p.program === "string").map(p => ({ processId: p.processId, program: text(p.program) })) : [];
+  return {
+    process: { available: process.available === true, scope: text(process.scope, 40), intervalMs: count(process.intervalMs), sampledAt: text(process.sampledAt, 40), count: count(process.count), truncated: process.truncated === true, droppedEvents: count(process.droppedEvents), processes },
+    browser: { activeClients: count(browser.activeClients), navigationClients: count(browser.navigationClients) },
+    inventory: { roots: count(inventory.roots), files: count(inventory.files), semanticEnabled: inventory.semanticEnabled === true },
+    inspectionBackend: ["central", "local"].includes(input.inspectionBackend) ? input.inspectionBackend : "unknown",
+    universalInterception: false,
+  };
+}
+module.exports = { sensorReport };
